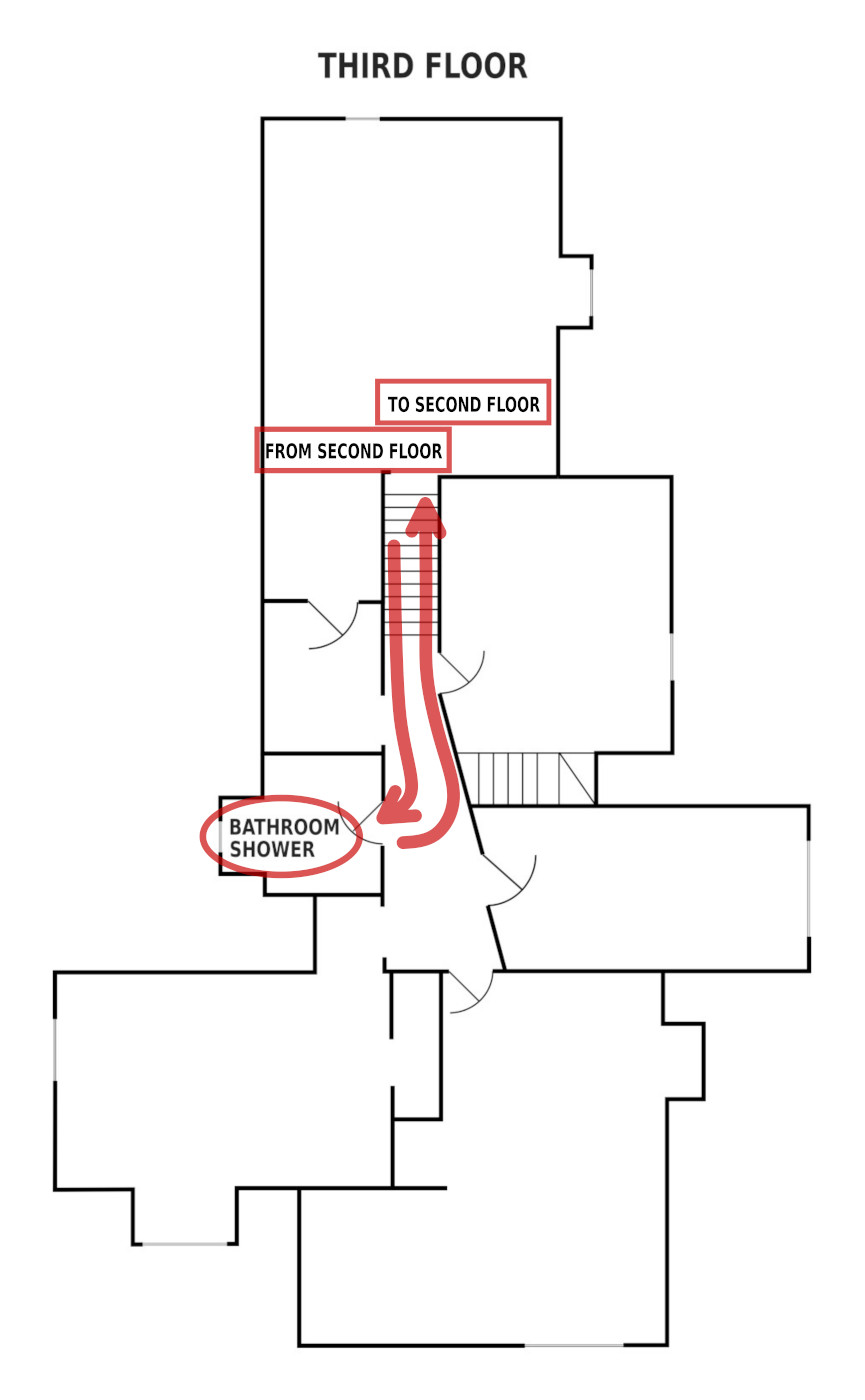
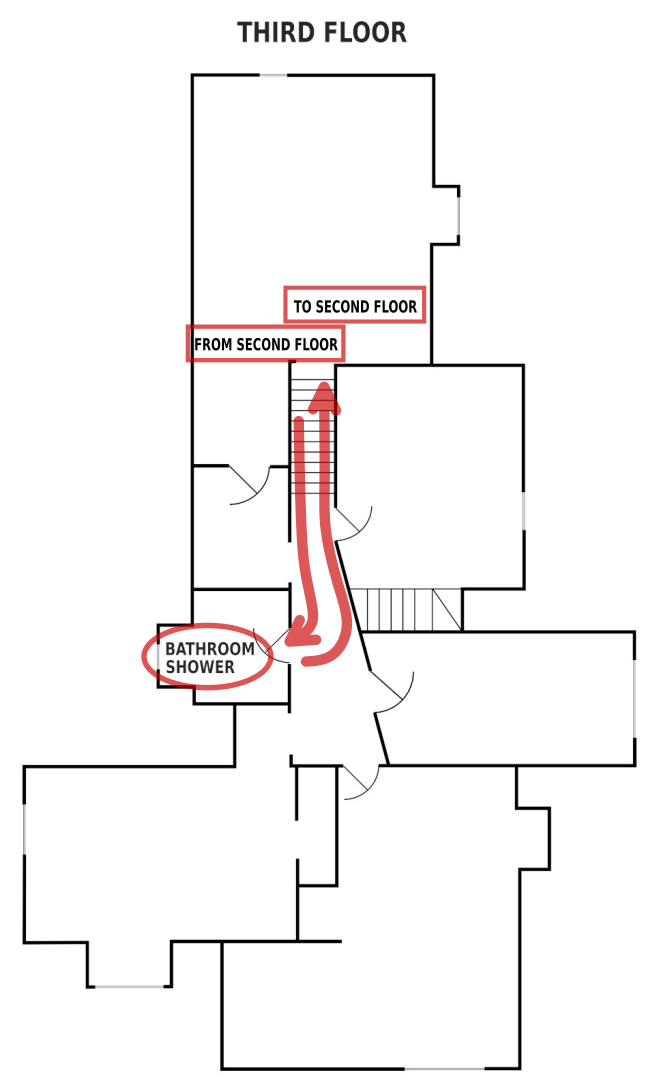
feat: exchanged engineering route and society route so society route starts at bottom and eng starts at top

Changed region(s): [[0.0303, 0.0, 0.9712, 0.9963]]

diff --git a/docs/index.html b/docs/index.html
@@ -37,7 +37,7 @@ tour_routes:
 <div>
 <h2>Choose a Route</h2>
 
-<!-- use position to put WAYNE file first in list, ENG second, etc. --> 
+<!-- use 'position' variable to put WAYNE file first in list, ENG second, etc. --> 
 {% assign sorted_files = site.pages | sort: "position" %}
 {% for p in sorted_files %}
   {% if p.path contains '_route.md' %}

diff --git a/docs/society_route.md b/docs/society_route.md
@@ -3,13 +3,13 @@ published: true
 layout: default
 position: 3
 title: The "SOCIETY" Route
-audio: /audio/frontfenceplaceholder.mp3
-description: The "SOCIETY" route allows you to "start at the top and work your way down". Start on third floor, then kitchen, then exterior, and end in basement.
+#audio: /audio/frontfenceplaceholder.mp3
+description: The "SOCIETY" route has you "work your way up". Start in the basement, then first-floor kitchen, exterior, and end on the third floor.
 #video
 # comment: set this to false when we have some real pages working
-images:
-  - src: /image/fence300.jpg
-    alt: front fence
+#images:
+#  - src: /image/fence300.jpg
+#    alt: front fence
 #extra:
 ---
-The "SOCIETY" route allows you to "start at the top and work your way down". Start on third floor, then kitchen, then exterior, and end in basement.
+The "SOCIETY" route has you "work your way up". Start in the basement, then first-floor kitchen, exterior, and end on the third floor.

diff --git a/docs/engineering_route.md b/docs/engineering_route.md
@@ -4,7 +4,7 @@ layout: default
 position: 2
 title: The "ENGINEERING" Route
 audio: /audio/frontfenceplaceholder.mp3
-description: The "ENGINEERING" route has you "work your way up". Start in the basement, then first-floor kitchen, exterior, and end on the third floor.
+description: The "ENGINEERING" route has you "start at the top and work your way down". Start on third floor, then kitchen, then exterior, and end in basement.
 #video
 # comment: set this to false when we have some real pages working
 images:
@@ -12,4 +12,4 @@ images:
     alt: front fence
 #extra:
 ---
-The "ENGINEERING" route makes you "work your way up". Start in the basement, then first-floor kitchen, exterior, and end on the third floor.
+The "ENGINEERING" route has you "start at the top and work your way down". Start on third floor, then kitchen, then exterior, and end in basement.

diff --git a/docs/wayne_route.md b/docs/wayne_route.md
@@ -14,7 +14,7 @@ description: The "WAYNE" route is the "regular" tour route. Tour outside first, 
 ---
 <div>
 <p>
-The "WAYNE" route is the "regular" tour route. Tour outside first, then the kitchen, basement, and end on third floor.
+The "WAYNE" route is the "regular" tour route. Start in the main hallway, tour outside exterior first, then the first floor and kitchen, basement, and end on third floor.
 </p>
 </div>
 
